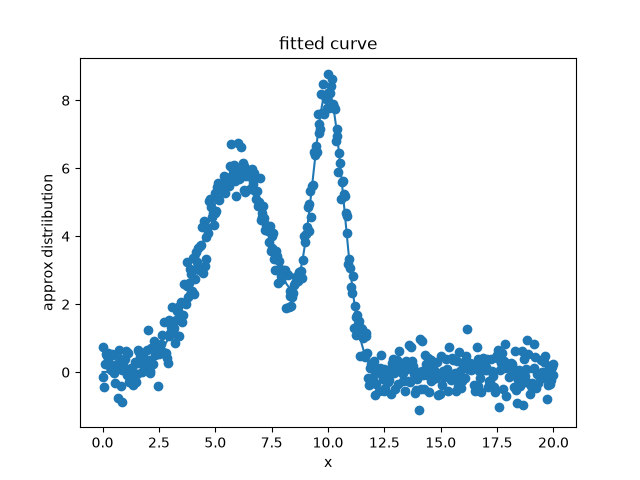
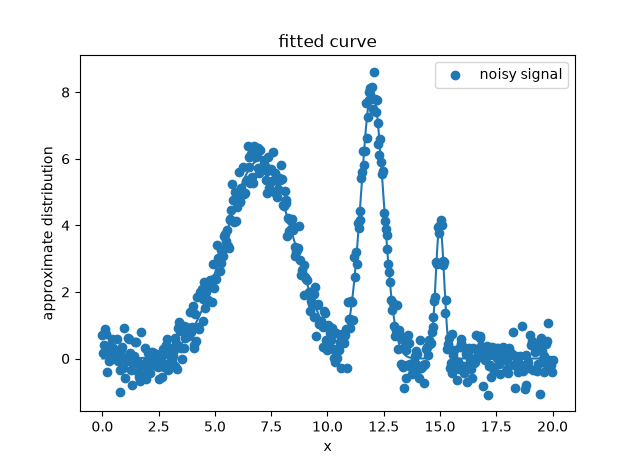
updated image, misc changes

diff --git a/curve_fit.py b/curve_fit.py
@@ -155,6 +155,6 @@ print(f"errors: {error_array}")
 est_curve = n_gaussian(x, *popt)
 plt.plot(x, est_curve, label = "fitted curve")
 plt.xlabel("x")
-plt.ylabel("approx distriibution")
+plt.ylabel("approximate distribution")
 plt.title("fitted curve")
 plt.show()
